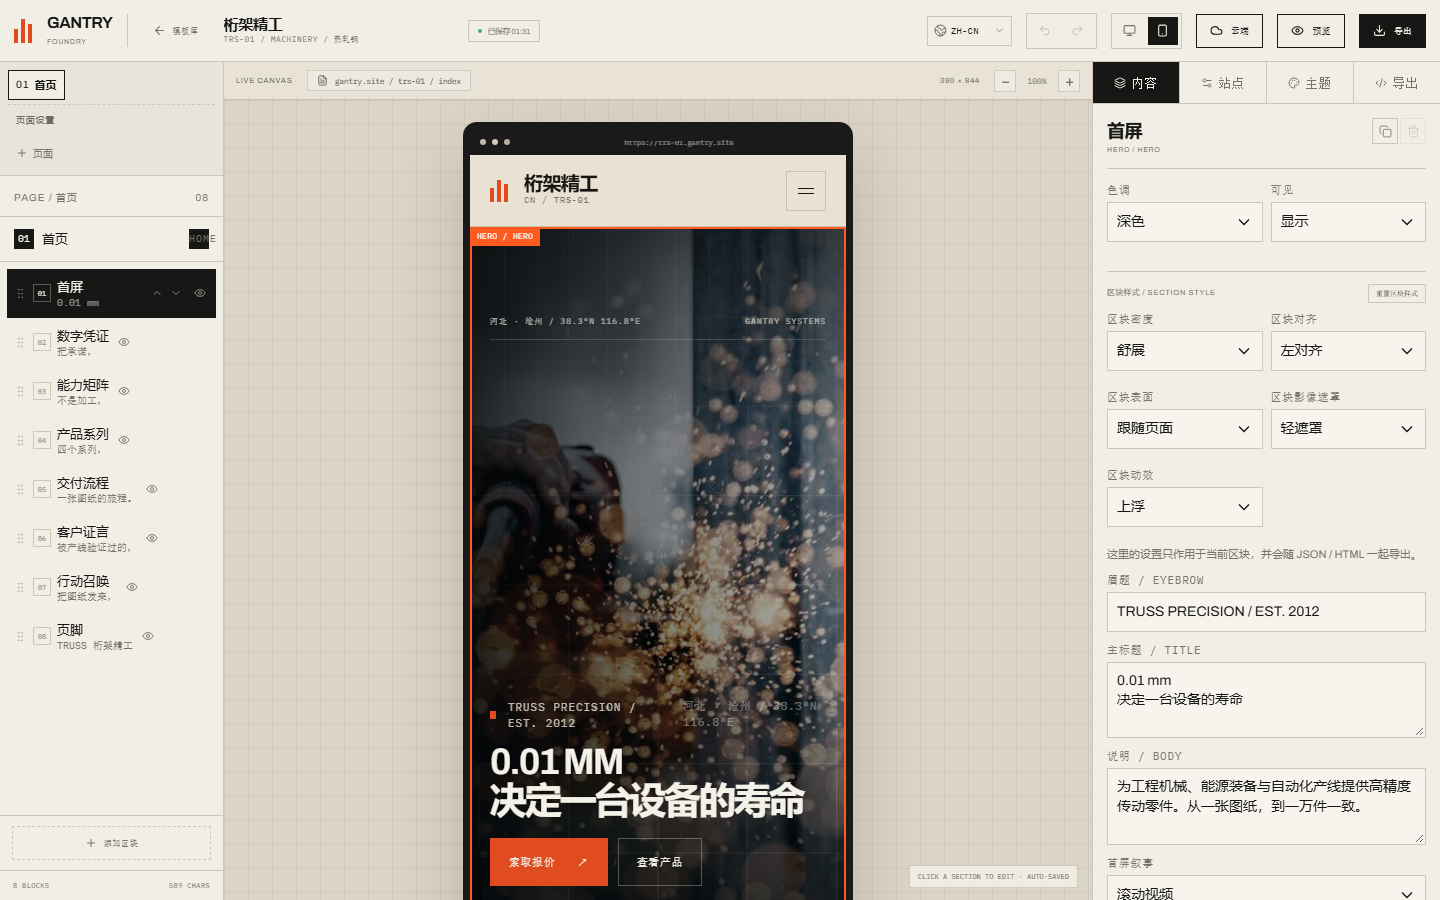
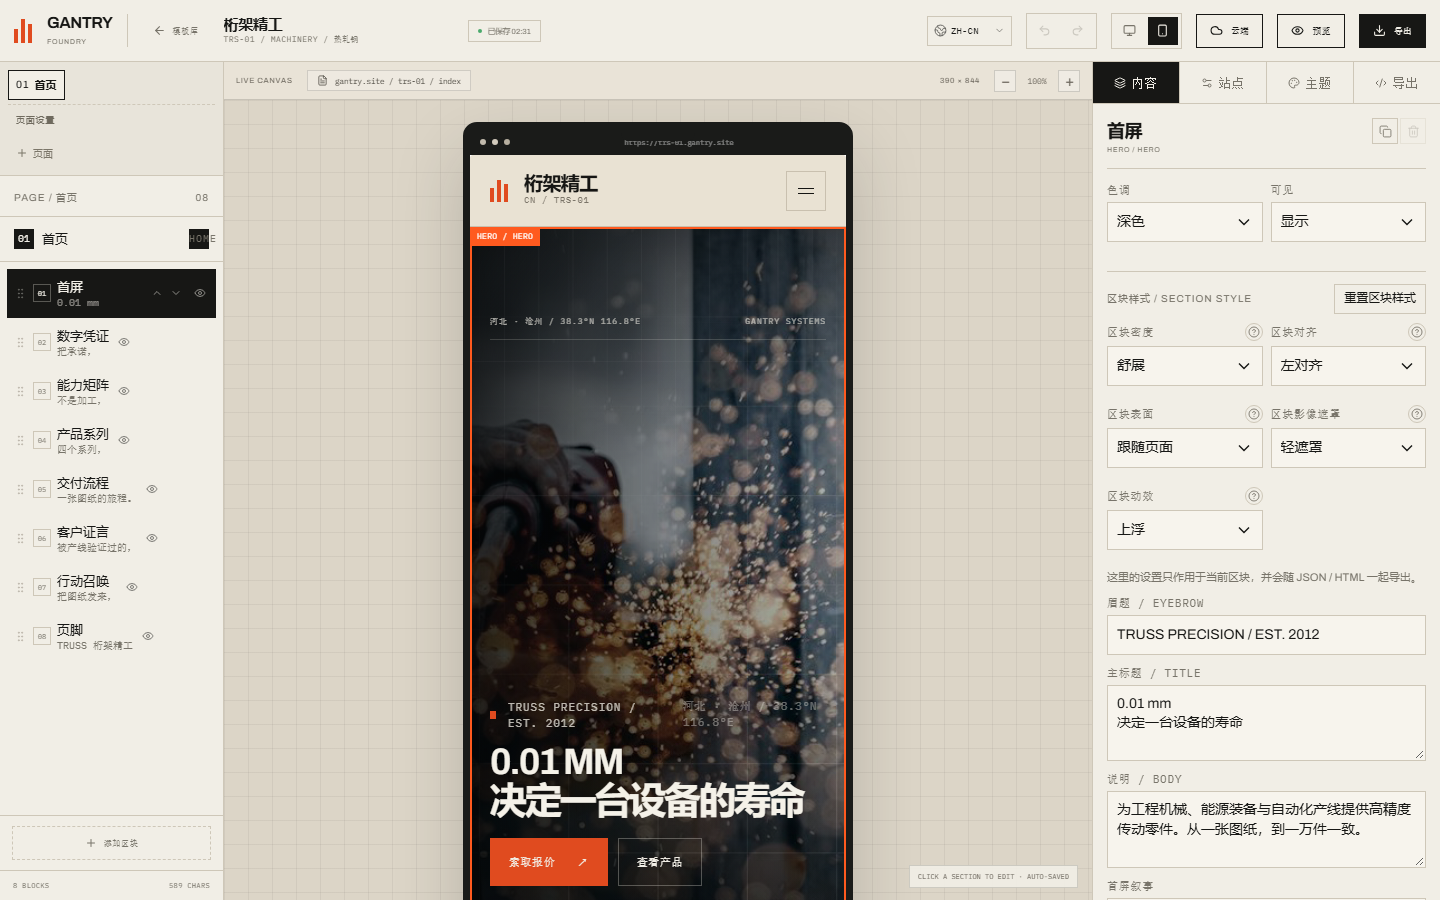
style(编辑器): 放大内容面板操作按钮与提示字号
内容 tab 的添加项、重置区块样式、重置焦点、关键帧字段与添加导航按钮字号从 7–9px 提升到 11.5–13px，并增加最小点击高度；字段提示浮层继续使用 body portal，避免被面板裁切。验证：tsc、lint、146 单测、25 E2E、build 通过。

diff --git a/frontend/src/styles/shell.css b/frontend/src/styles/shell.css
@@ -3656,6 +3656,43 @@ html[dir='rtl'] .field-select {
   transform: translateY(-100%);
 }
 
+/* Readability pass: content-tab action buttons */
+.inspector-group-head .mono {
+  font-size: 10px;
+}
+
+.inspector-group-head button,
+.crop-field-head button {
+  min-height: 30px;
+  padding: 6px 9px;
+  font-size: 11.5px;
+  line-height: 1.2;
+  letter-spacing: 0.04em;
+}
+
+.inspector-group-head button {
+  font-family: var(--shell-body);
+  text-transform: none;
+}
+
+.crop-field .field > span,
+.crop-field .field > span em {
+  font-size: 11px;
+}
+
+.crop-field-head button {
+  text-decoration-thickness: 1px;
+}
+
+.nav-add {
+  min-height: 40px;
+  font-size: 13px;
+}
+
+.keyframe-row label span {
+  font-size: 10px;
+}
+
 @keyframes field-tooltip-in {
   from { opacity: 0; }
   to { opacity: 1; }

diff --git a/frontend/README.md b/frontend/README.md
@@ -119,7 +119,7 @@ scripts/         截图脚本
 - `npx tsc --noEmit` 通过。
 - `npx vitest run`：23 个测试文件，146 个测试通过。
 - `npx playwright test`：25 条用例通过（715 套模板分页、市场/行业/风格筛选、手机无横向溢出、登录闸门、编辑/主题/设备/预览/导出、滚动视频、独立裁剪、页面导航切页、画布编辑、CTA、语言菜单、30 套精选 smoke、云端多页往返）。
-- `npm run build` 通过（1665 模块；首屏 `index` 477.72 kB / gzip 159.41 kB；按需 `Builder` 364.54 kB / `Gallery` 15.67 kB；CSS 102.95 kB / gzip 19.16 kB）。
+- `npm run build` 通过（1665 模块；首屏 `index` 477.72 kB / gzip 159.41 kB；按需 `Builder` 364.54 kB / `Gallery` 15.67 kB；CSS 103.41 kB / gzip 19.24 kB）。
 - `npm run lint` 0 error / 0 warning。
 - 导出 HTML 已在 Playwright 里用 `file://` 实际打开，标题与 8 个区块均存在。
 - 云端流程已用 Playwright 注册账号、创建两页、保存、从云端重开并验证页面标题。

diff --git a/docs/ACCEPTANCE.md b/docs/ACCEPTANCE.md
@@ -53,7 +53,7 @@ npm run build             # 1665 modules
 - 首屏 `index` 477.72 kB / gzip 159.41 kB
 - 按需 `Builder` 364.54 kB / gzip 106.69 kB，`Gallery` 15.67 kB / gzip 4.78 kB
 - `ImageCropper` 3.27 kB / gzip 1.42 kB
-- CSS 102.95 kB / gzip 19.16 kB
+- CSS 103.41 kB / gzip 19.24 kB
 
 后端：
 
